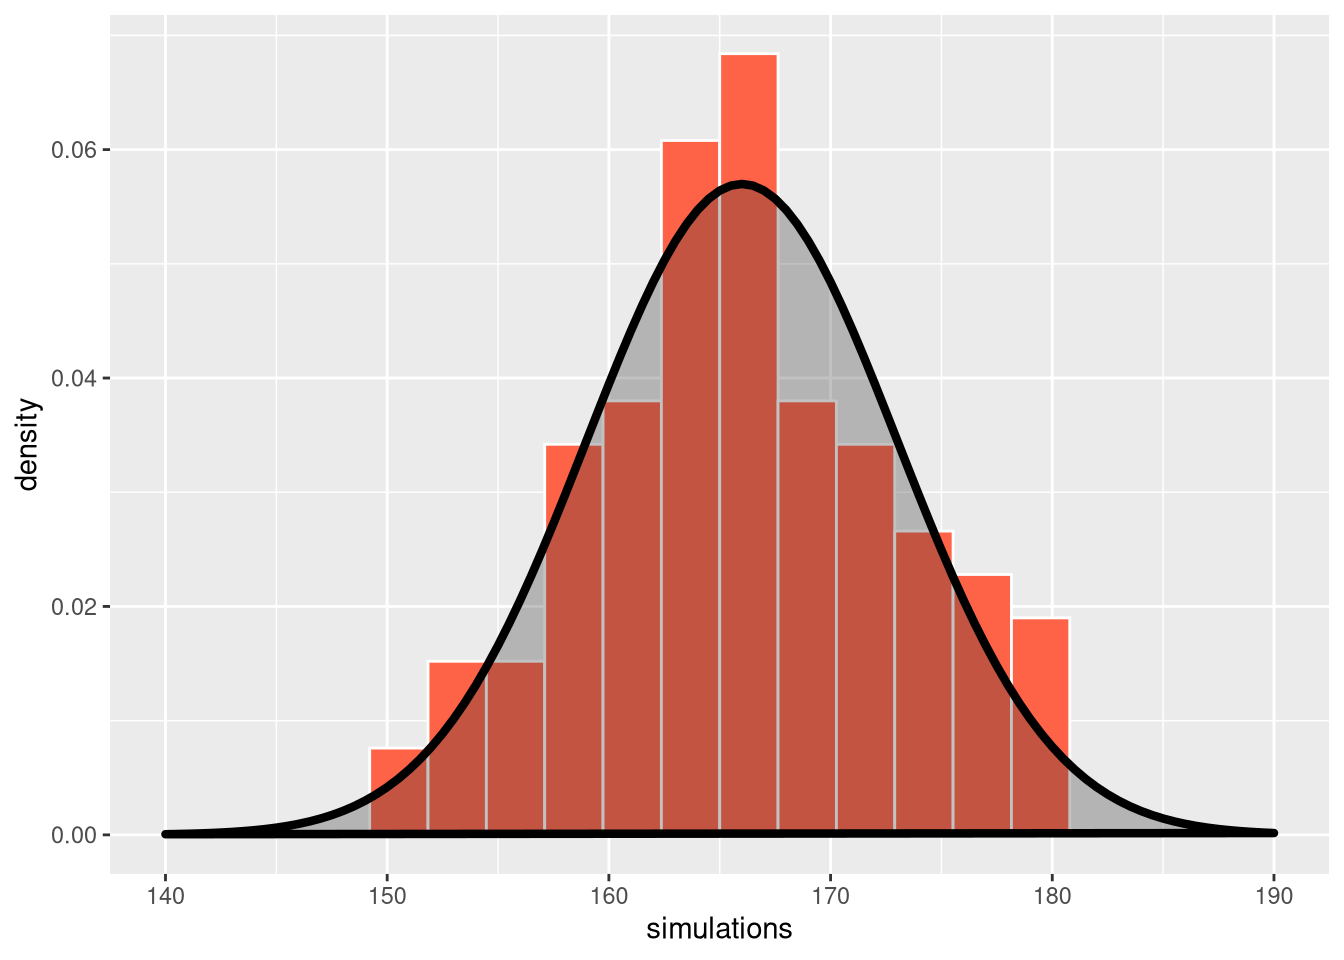
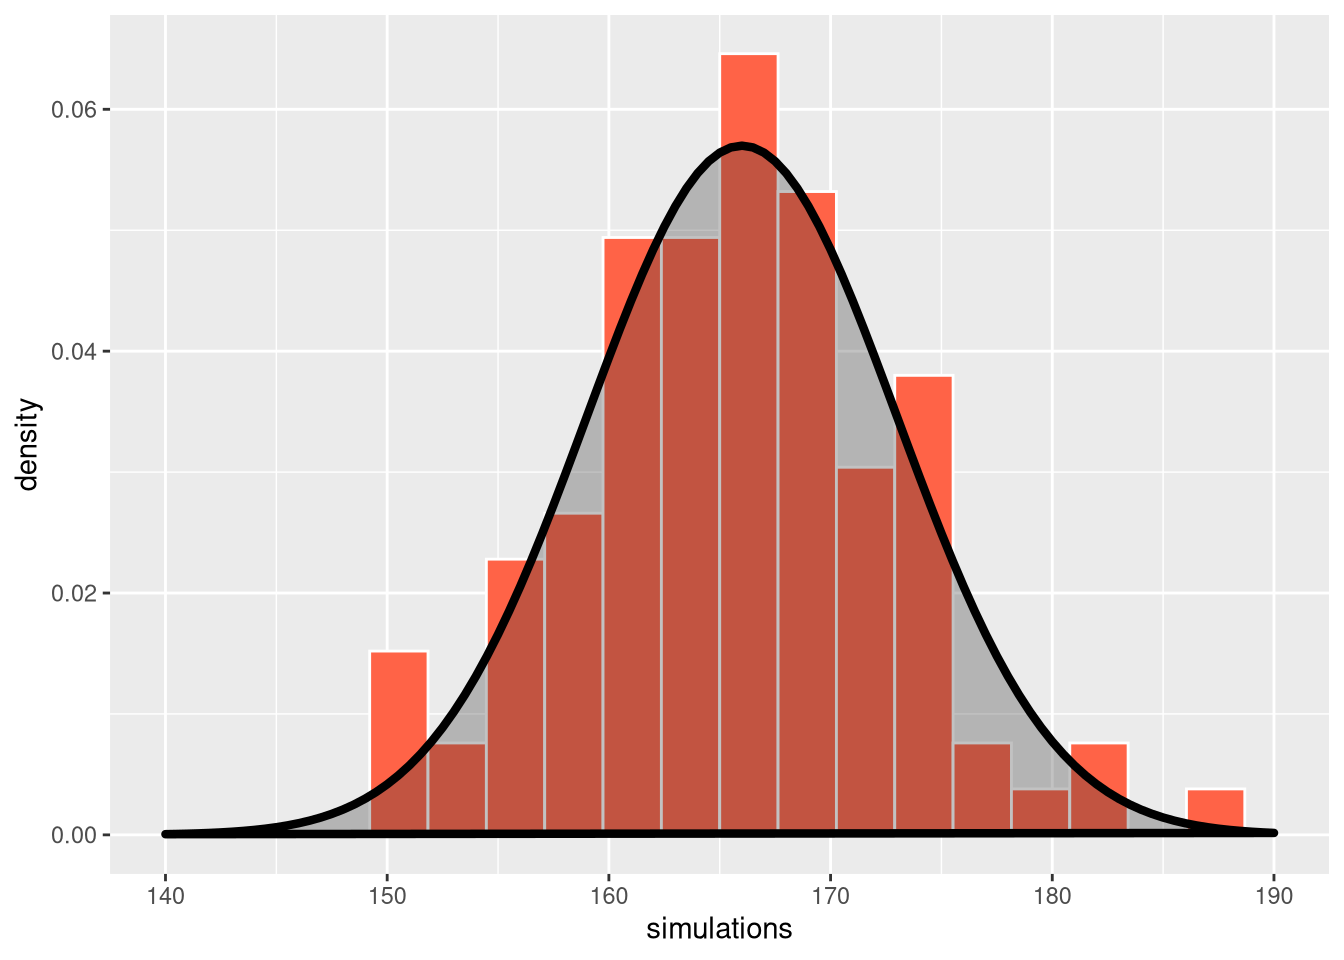
Built site for gh-pages

diff --git a/07-globe-tossing.html b/07-globe-tossing.html
@@ -334,7 +334,7 @@ window.Quarto = {
 <h1>Probabilistic models</h1>
 <section id="how-to-learn-from-data" class="level2">
 <h2 class="anchored" data-anchor-id="how-to-learn-from-data">How to learn from data</h2>
-<p>There are different competing paradigms for inferring unobserved model quantities, such as parameters, from data. The approach we will discuss here is <em>Bayesian inference</em>, which directly uses the language and formalism of probability to describe uncertainty in unknown quantities of interest. (the alternative is <em>frequentist inference</em>, which has been dominant for almost 100 years). Both approaches have certain advantages and disadvantages, but in my experience, Bayesian inference is often more intuitive in its handling of uncertainty and allows to focus on model construction, which should be the focus of statistical modelling efforts.</p>
+<p>There are different competing paradigms for inferring unobserved model quantities, such as parameters, from data. The approach we will discuss here is <em>Bayesian inference</em>, which directly uses the language and formalism of probability to describe uncertainty in unknown quantities of interest. (the alternative is <em>frequentist inference</em>, which has been dominant for almost 100 years). Both approaches have certain advantages and disadvantages, but in my experience, Bayesian inference is often more intuitive and practical in its handling of uncertainty and allows researchers to focus on model construction instead of having to deal with robust estimators and the like.</p>
 </section>
 <section id="example-estimating-the-earths-water-cover-by-throwing-a-globe" class="level2">
 <h2 class="anchored" data-anchor-id="example-estimating-the-earths-water-cover-by-throwing-a-globe">Example: Estimating the earth’s water cover by throwing a globe</h2>
@@ -351,7 +351,7 @@ window.Quarto = {
 <div class="cell-output cell-output-stdout">
 <pre><code>throws
  0  1 
-34 66 </code></pre>
+33 67 </code></pre>
 </div>
 </div>
 <p>However, we usually don’t know the model parameters beforehand and instead have to estimate them from data. The next section will discuss how to do this.</p>

diff --git a/06-statistical-models.html b/06-statistical-models.html
@@ -483,11 +483,11 @@ window.Quarto = {
 <div class="cell">
 <div class="code-copy-outer-scaffold"><div class="sourceCode cell-code" id="cb4"><pre class="sourceCode r code-with-copy"><code class="sourceCode r"><span id="cb4-1"><a href="#cb4-1" aria-hidden="true" tabindex="-1"></a><span class="fu">mean</span>(simulations)</span></code></pre></div><button title="Copy to Clipboard" class="code-copy-button"><i class="bi"></i></button></div>
 <div class="cell-output cell-output-stdout">
-<pre><code>[1] 165.977</code></pre>
+<pre><code>[1] 165.7678</code></pre>
 </div>
 <div class="code-copy-outer-scaffold"><div class="sourceCode cell-code" id="cb6"><pre class="sourceCode r code-with-copy"><code class="sourceCode r"><span id="cb6-1"><a href="#cb6-1" aria-hidden="true" tabindex="-1"></a><span class="fu">sd</span>(simulations)</span></code></pre></div><button title="Copy to Clipboard" class="code-copy-button"><i class="bi"></i></button></div>
 <div class="cell-output cell-output-stdout">
-<pre><code>[1] 6.996122</code></pre>
+<pre><code>[1] 7.273611</code></pre>
 </div>
 </div>
 <p>We can see that while the observed mean and SD are close to the values of 166 and 7 specified when we simulated the data, the are not exactly the same due to the randomness inherent to the DGP.</p>

diff --git a/casestudy-eurostat.html b/casestudy-eurostat.html
@@ -317,7 +317,7 @@ pre > code.sourceCode > span > a:first-child::before { text-decoration: underlin
 <div class="cell">
 <div class="code-copy-outer-scaffold"><div class="sourceCode cell-code" id="cb2"><pre class="sourceCode r code-with-copy"><code class="sourceCode r"><span id="cb2-1"><a href="#cb2-1" aria-hidden="true" tabindex="-1"></a>dat <span class="ot">&lt;-</span> <span class="fu">get_eurostat</span>(<span class="at">id =</span> <span class="st">"ilc_peps11"</span>, <span class="at">time_format =</span> <span class="st">"num"</span>)</span></code></pre></div><button title="Copy to Clipboard" class="code-copy-button"><i class="bi"></i></button></div>
 <div class="cell-output cell-output-stderr">
-<pre><code>Table ilc_peps11 cached at /tmp/Rtmp3CAw5m/eurostat/faeacdd4504e47e73c0f199e2f434f34.rds</code></pre>
+<pre><code>Table ilc_peps11 cached at /tmp/RtmpphZEUB/eurostat/faeacdd4504e47e73c0f199e2f434f34.rds</code></pre>
 </div>
 </div>
 <div class="cell">
